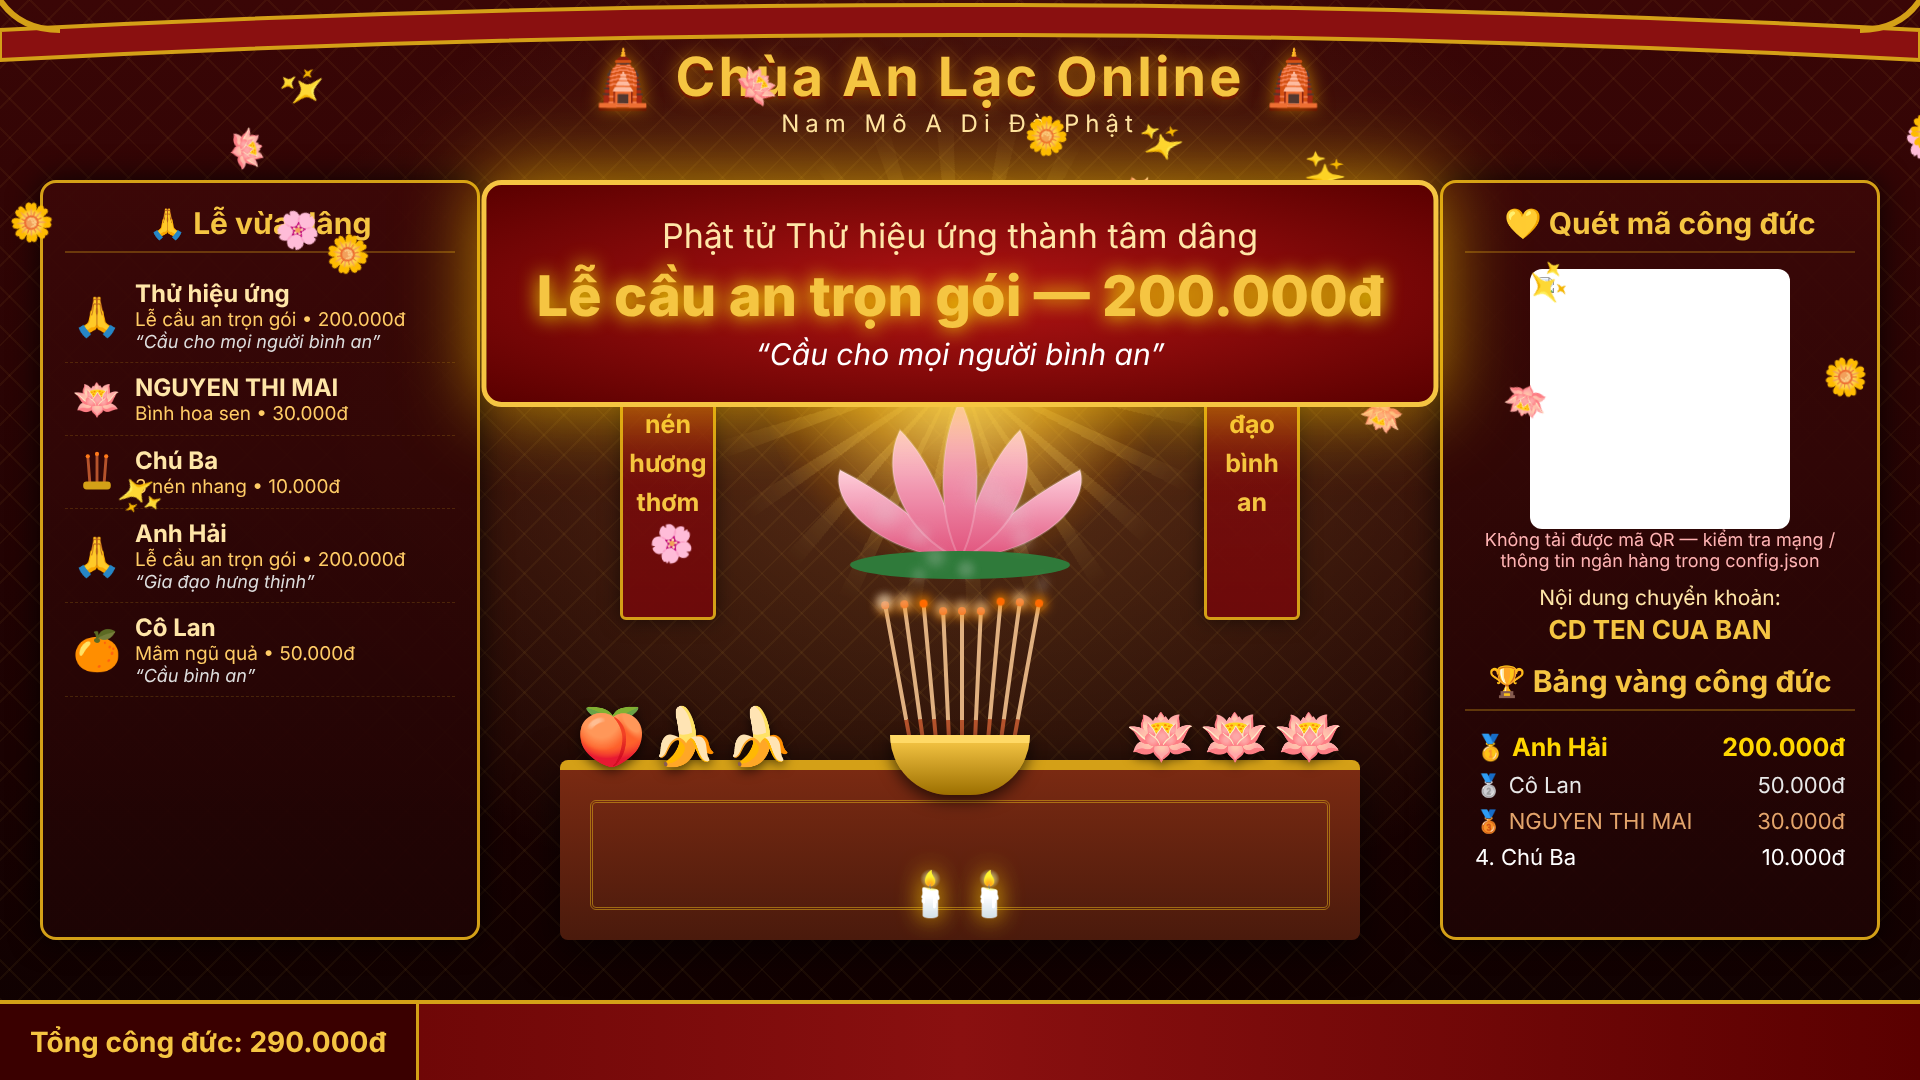
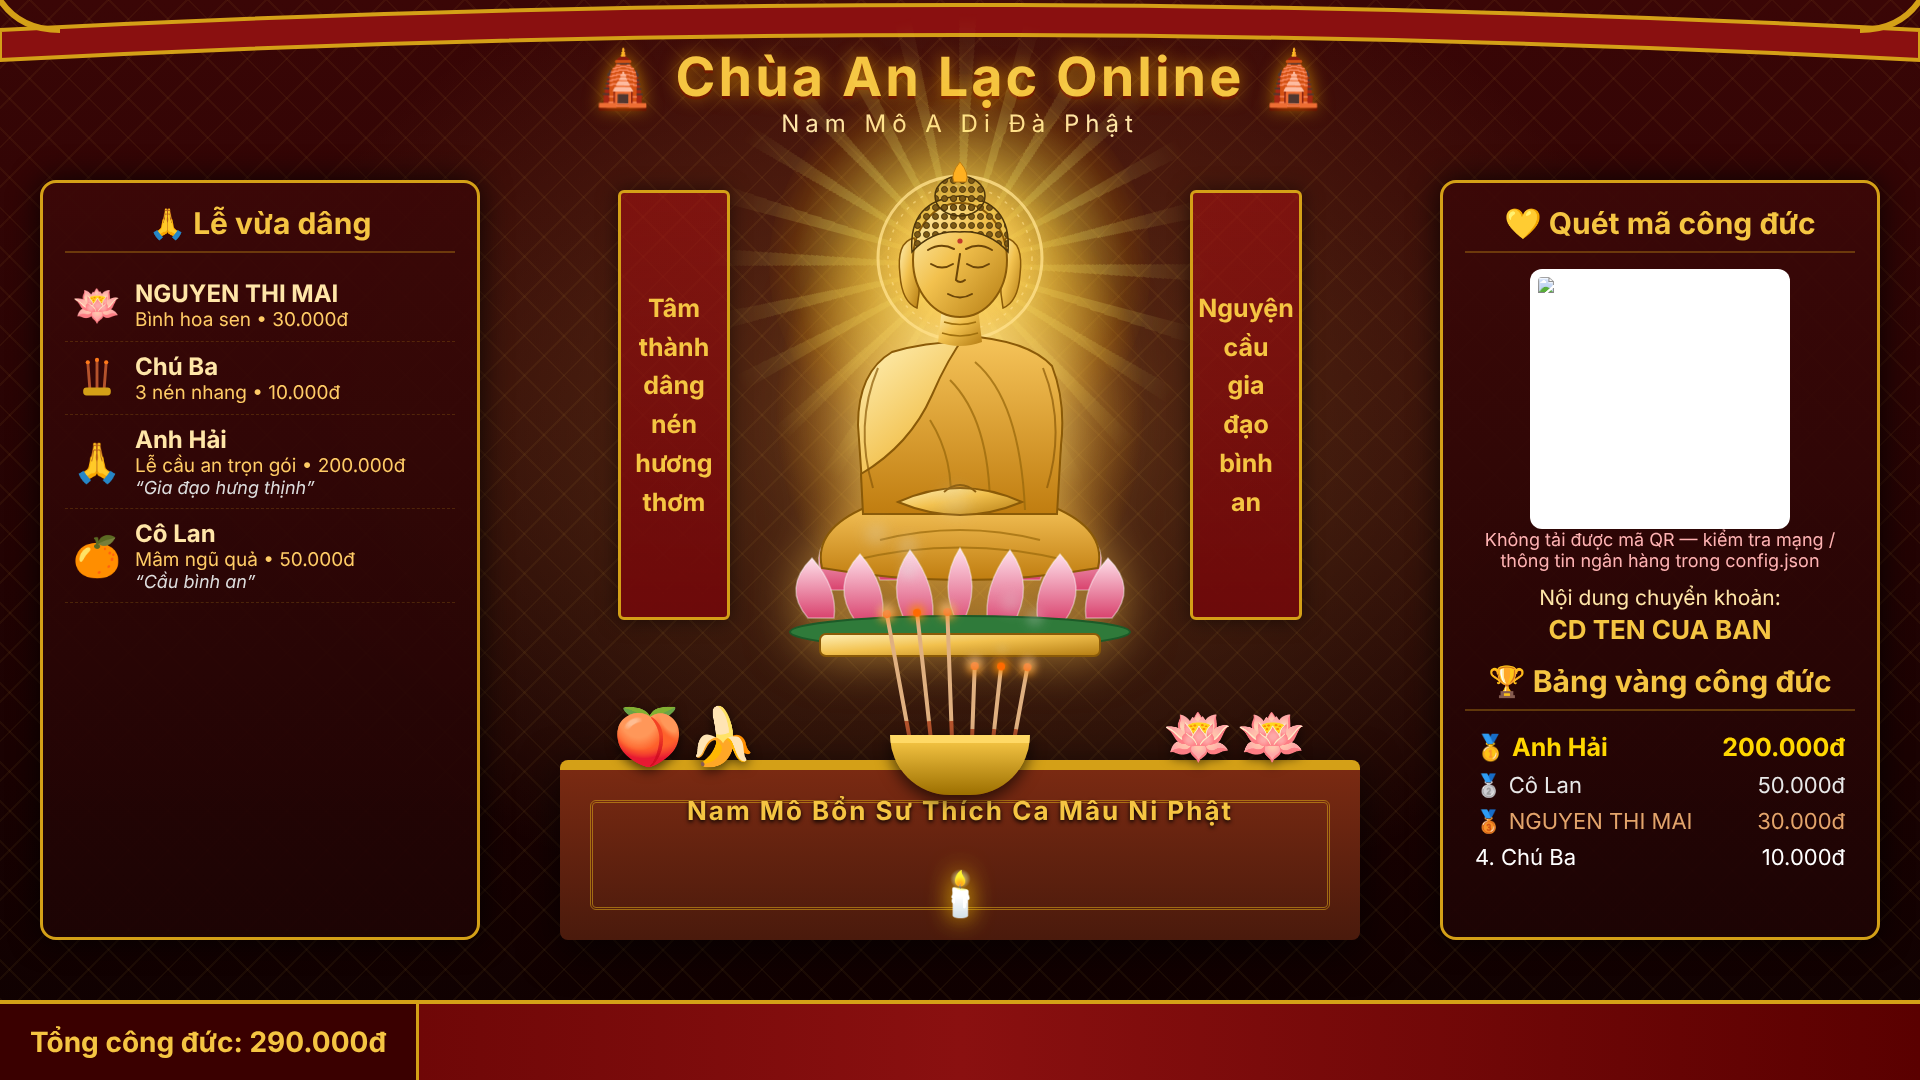
Thêm tượng Phật ngồi thiền trên tòa sen vào cảnh chùa, hỗ trợ thay bằng ảnh tượng thật
Claude-Session: https://claude.ai/code/session_01SnbTBX7TzaXxBfhp9j6W1t

diff --git a/le-chua-online/public/overlay.html b/le-chua-online/public/overlay.html
@@ -31,7 +31,7 @@
   #roof p  { position:relative; top:44px; font-size:24px; color:#ffe6a8; letter-spacing:6px; }
 
   /* Hào quang + hoa sen trung tâm */
-  #halo { position:absolute; left:760px; top:170px; width:400px; height:400px; border-radius:50%;
+  #halo { position:absolute; left:780px; top:85px; width:360px; height:360px; border-radius:50%;
     background:radial-gradient(circle, rgba(255,230,140,.95) 0%, rgba(255,190,60,.55) 35%, rgba(255,150,0,.12) 62%, transparent 72%);
     animation:glow 4s ease-in-out infinite; }
   @keyframes glow { 50% { transform:scale(1.07); filter:brightness(1.2); } }
@@ -39,15 +39,17 @@
     background:repeating-conic-gradient(rgba(255,215,100,.18) 0 4deg, transparent 4deg 15deg); animation:spin 60s linear infinite;
     mask:radial-gradient(circle, #000 40%, transparent 70%); -webkit-mask:radial-gradient(circle, #000 40%, transparent 70%); }
   @keyframes spin { to { transform:rotate(360deg); } }
-  #lotus { position:absolute; left:810px; top:380px; }
-  #holy { position:absolute; left:760px; top:300px; width:400px; text-align:center; font-size:30px; color:#7a2a00; font-weight:700; letter-spacing:2px; }
+  /* Tượng Phật (SVG vẽ sẵn, hoặc ảnh thật nếu đặt buddhaImage trong config.json) */
+  #buddha { position:absolute; left:760px; top:140px; width:400px; height:520px; filter:drop-shadow(0 0 24px rgba(255,200,80,.55)); }
+  #buddha img { width:100%; height:100%; object-fit:contain; object-position:bottom; }
+  #holy { position:absolute; left:0; right:0; top:168px; text-align:center; font-size:26px; color:var(--gold); font-weight:700; letter-spacing:2px; z-index:1; text-shadow:0 2px 4px #000; }
 
   /* Câu đối hai bên */
   /* Câu đối chữ Quốc ngữ: mỗi chữ một dòng, đọc từ trên xuống */
-  .couplet { position:absolute; top:190px; width:96px; height:430px; text-align:center; line-height:1.55;
+  .couplet { position:absolute; top:190px; width:112px; height:430px; text-align:center; line-height:1.55;
     background:linear-gradient(#a3121299,#6d0a0a); border:3px solid var(--gold2); border-radius:6px; color:var(--gold);
     font-size:25px; font-weight:700; display:flex; align-items:center; justify-content:center; box-shadow:0 0 20px #0008; }
-  #c1 { left:620px; } #c2 { left:1204px; }
+  #c1 { left:618px; } #c2 { left:1190px; }
 
   /* Bàn thờ */
   #altar { position:absolute; left:560px; top:640px; width:800px; height:300px; }
@@ -105,7 +107,8 @@
   @keyframes tick { to { transform:translateX(-100%); } }
 
   /* Thông báo lớn khi có người dâng lễ */
-  #announce { position:absolute; left:50%; top:180px; transform:translateX(-50%) scale(.5); opacity:0; z-index:50;
+  /* Đặt thông báo ở phía dưới để không che tượng Phật */
+  #announce { position:absolute; left:50%; top:660px; transform:translateX(-50%) scale(.5); opacity:0; z-index:50;
     min-width:900px; padding:30px 50px; text-align:center; border-radius:20px; pointer-events:none;
     background:radial-gradient(ellipse, #b31414, #5a0000); border:5px solid var(--gold); box-shadow:0 0 80px rgba(255,200,0,.7);
     transition:all .5s cubic-bezier(.2,1.4,.4,1); }
@@ -129,24 +132,102 @@
   </div>
 
   <div id="halo"><div class="rays"></div></div>
-  <div id="holy">Nam Mô Bổn Sư<br>Thích Ca Mâu Ni Phật</div>
-  <svg id="lotus" width="300" height="200" viewBox="0 0 300 200" aria-hidden="true">
-    <defs><linearGradient id="pg" x1="0" y1="0" x2="0" y2="1"><stop offset="0" stop-color="#ffd1e0"/><stop offset="1" stop-color="#e0507a"/></linearGradient></defs>
-    <g fill="url(#pg)" stroke="#fff3" stroke-width="2">
-      <path d="M150 180 C60 170 20 120 30 90 C70 110 110 140 150 180Z"/>
-      <path d="M150 180 C240 170 280 120 270 90 C230 110 190 140 150 180Z"/>
-      <path d="M150 180 C90 150 70 90 90 50 C120 80 140 130 150 180Z"/>
-      <path d="M150 180 C210 150 230 90 210 50 C180 80 160 130 150 180Z"/>
-      <path d="M150 180 C125 130 130 60 150 20 C170 60 175 130 150 180Z"/>
+  <!-- Tượng Phật ngồi thiền trên tòa sen (vẽ bằng SVG) -->
+  <div id="buddha">
+  <svg viewBox="0 0 400 520" width="400" height="520" role="img" aria-label="Tượng Phật">
+    <defs>
+      <linearGradient id="gold" x1="0" y1="0" x2="1" y2="1">
+        <stop offset="0" stop-color="#fff1b8"/><stop offset=".45" stop-color="#f2c14e"/><stop offset="1" stop-color="#b47c12"/>
+      </linearGradient>
+      <linearGradient id="robe" x1="0" y1="0" x2="0" y2="1">
+        <stop offset="0" stop-color="#f6c45a"/><stop offset="1" stop-color="#c07d10"/>
+      </linearGradient>
+      <linearGradient id="hair" x1="0" y1="0" x2="0" y2="1">
+        <stop offset="0" stop-color="#6b4a12"/><stop offset="1" stop-color="#8f6a1c"/>
+      </linearGradient>
+      <linearGradient id="petal" x1="0" y1="0" x2="0" y2="1">
+        <stop offset="0" stop-color="#ffe0ea"/><stop offset="1" stop-color="#d9436e"/>
+      </linearGradient>
+      <radialGradient id="aura" cx=".5" cy=".5" r=".5">
+        <stop offset="0" stop-color="#fff6c8" stop-opacity=".9"/><stop offset=".6" stop-color="#ffcf55" stop-opacity=".35"/><stop offset="1" stop-color="#ff9d00" stop-opacity="0"/>
+      </radialGradient>
+      <pattern id="curls" width="9" height="9" patternUnits="userSpaceOnUse">
+        <circle cx="4.5" cy="4.5" r="3" fill="#7d5a16" stroke="#4e360a" stroke-width="1"/>
+      </pattern>
+    </defs>
+
+    <!-- Hào quang thân và đầu -->
+    <ellipse cx="200" cy="270" rx="185" ry="235" fill="url(#aura)"/>
+    <circle cx="200" cy="118" r="82" fill="url(#aura)" stroke="#ffe08a" stroke-width="3" stroke-opacity=".8"/>
+    <circle cx="200" cy="118" r="72" fill="none" stroke="#ffe08a" stroke-width="1.5" stroke-opacity=".6" stroke-dasharray="3 6"/>
+
+    <!-- Tòa sen: hàng cánh phía sau -->
+    <g fill="url(#petal)" stroke="#fff5" stroke-width="1.5">
+      <path d="M70 450 Q45 415 75 390 Q100 420 95 450Z"/><path d="M330 450 Q355 415 325 390 Q300 420 305 450Z"/>
+      <path d="M120 440 Q100 400 130 378 Q150 410 145 440Z"/><path d="M280 440 Q300 400 270 378 Q250 410 255 440Z"/>
     </g>
-    <ellipse cx="150" cy="185" rx="110" ry="14" fill="#2f7a3a"/>
+
+    <!-- Chân ngồi kiết già -->
+    <path d="M62 428 Q52 385 120 362 L280 362 Q348 385 338 428 Q200 452 62 428Z" fill="url(#robe)" stroke="#8a5a08" stroke-width="2"/>
+    <path d="M95 420 Q200 395 305 420 M120 400 Q200 380 280 400" stroke="#9a6a0c" stroke-width="2" fill="none" opacity=".7"/>
+
+    <!-- Thân -->
+    <path d="M132 212 Q200 192 268 212 Q302 232 302 285 L296 372 L104 372 L98 285 Q98 232 132 212Z" fill="url(#gold)" stroke="#8a5a08" stroke-width="2"/>
+    <!-- Áo cà sa vắt vai -->
+    <path d="M205 196 Q268 200 292 226 Q306 262 301 305 L297 374 L103 374 L101 334 Q150 305 172 255 Q188 218 205 196Z" fill="url(#robe)" stroke="#8a5a08" stroke-width="2"/>
+    <path d="M190 240 Q230 280 230 370 M215 222 Q260 260 265 370 M170 280 Q195 320 190 370" stroke="#9a6a0c" stroke-width="2" fill="none" opacity=".75"/>
+    <path d="M118 228 Q94 285 113 348 M283 228 Q306 285 287 348" stroke="#8a5a08" stroke-width="2" fill="none" opacity=".7"/>
+
+    <!-- Hai tay kết ấn thiền định -->
+    <path d="M138 362 Q200 334 262 362 Q200 388 138 362Z" fill="url(#gold)" stroke="#8a5a08" stroke-width="2"/>
+    <path d="M184 352 Q200 338 216 352" stroke="#8a5a08" stroke-width="2" fill="none"/>
+
+    <!-- Cổ (3 ngấn) -->
+    <path d="M182 168 L218 168 L222 202 Q200 210 178 202Z" fill="url(#gold)"/>
+    <path d="M184 182 Q200 187 216 182 M182 193 Q200 199 218 193" stroke="#a0700e" stroke-width="1.5" fill="none"/>
+
+    <!-- Tai dài -->
+    <path d="M154 98 Q136 102 140 135 Q142 162 157 168 Q162 140 158 110Z" fill="url(#gold)" stroke="#8a5a08" stroke-width="1.5"/>
+    <path d="M246 98 Q264 102 260 135 Q258 162 243 168 Q238 140 242 110Z" fill="url(#gold)" stroke="#8a5a08" stroke-width="1.5"/>
+
+    <!-- Mặt -->
+    <ellipse cx="200" cy="120" rx="47" ry="57" fill="url(#gold)" stroke="#8a5a08" stroke-width="2"/>
+
+    <!-- Tóc xoắn ốc + nhục kế -->
+    <path d="M152 112 Q148 60 200 56 Q252 60 248 112 Q228 90 200 92 Q172 90 152 112Z" fill="url(#curls)" stroke="#4e360a" stroke-width="1.5"/>
+    <ellipse cx="200" cy="56" rx="25" ry="20" fill="url(#curls)" stroke="#4e360a" stroke-width="1.5"/>
+    <path d="M200 22 Q210 34 206 42 L194 42 Q190 34 200 22Z" fill="#ffb020" stroke="#c07d10"/>
+
+    <!-- Nét mặt: mắt khép, miệng mỉm cười -->
+    <g stroke="#6b4508" stroke-width="2" fill="none" stroke-linecap="round">
+      <path d="M168 110 Q181 102 194 109"/><path d="M206 109 Q219 102 232 110"/>
+      <path d="M171 124 Q182 131 193 124"/><path d="M207 124 Q218 131 229 124"/>
+      <path d="M200 114 L196 140 Q200 144 205 140"/>
+      <path d="M188 154 Q200 161 212 154"/>
+    </g>
+    <circle cx="200" cy="101" r="2.6" fill="#c0392b"/>
+
+    <!-- Tòa sen: hàng cánh phía trước + đế -->
+    <g fill="url(#petal)" stroke="#fff6" stroke-width="1.5">
+      <path d="M48 478 Q22 448 52 418 Q78 448 74 478Z"/>
+      <path d="M96 482 Q70 446 100 414 Q128 446 122 482Z"/>
+      <path d="M148 486 Q124 446 150 410 Q178 446 172 486Z"/>
+      <path d="M200 488 Q176 446 200 408 Q224 446 200 488Z"/>
+      <path d="M252 486 Q276 446 250 410 Q222 446 228 486Z"/>
+      <path d="M304 482 Q330 446 300 414 Q272 446 278 482Z"/>
+      <path d="M352 478 Q378 448 348 418 Q322 448 326 478Z"/>
+    </g>
+    <ellipse cx="200" cy="492" rx="170" ry="16" fill="#2f7a3a" stroke="#1d5a28" stroke-width="2"/>
+    <rect x="60" y="494" width="280" height="22" rx="6" fill="url(#gold)" stroke="#8a5a08" stroke-width="2"/>
   </svg>
+  </div>
 
   <div class="couplet" id="c1"></div>
   <div class="couplet" id="c2"></div>
 
   <div id="altar">
     <div id="table"></div>
+    <div id="holy">Nam Mô Bổn Sư Thích Ca Mâu Ni Phật</div>
     <div id="sticks"></div>
     <div id="bowl"></div>
     <div class="zone" id="z-nhang"></div>
@@ -195,6 +276,10 @@ async function start() {
     text.split(/\s+/).forEach((w, i) => { if (i) el.append(document.createElement('br')); el.append(w); });
   }
   document.getElementById('qr').onerror = () => { document.getElementById('qrErr').style.display = 'block'; };
+  if (cfg.buddhaImage) {
+    const img = document.createElement('img'); img.src = cfg.buddhaImage; img.alt = 'Tượng Phật';
+    document.getElementById('buddha').replaceChildren(img);
+  }
   const note = cfg.transferPrefix + ' TEN CUA BAN';
   document.getElementById('qr').src = LC.qrUrl(0, note);
   document.getElementById('howto').innerHTML = 'Nội dung chuyển khoản:<br><b></b>';

diff --git a/le-chua-online/server.js b/le-chua-online/server.js
@@ -109,8 +109,8 @@ function serveStatic(req, res, urlPath) {
 
 // Cấu hình công khai (KHÔNG gửi adminKey / webhookApiKey ra ngoài)
 function publicConfig() {
-  const { templeName, slogan, couplet, bank, transferPrefix, items } = config;
-  return { templeName, slogan, couplet, bank, transferPrefix, items };
+  const { templeName, slogan, couplet, buddhaImage, bank, transferPrefix, items } = config;
+  return { templeName, slogan, couplet, buddhaImage, bank, transferPrefix, items };
 }
 
 // ---------- Định tuyến ----------

diff --git a/le-chua-online/README.md b/le-chua-online/README.md
@@ -15,6 +15,7 @@
 1. Cài **Node.js** (bản LTS) từ https://nodejs.org
 2. Mở thư mục `le-chua-online`, sửa file `config.json`:
    - `templeName`, `slogan`, `couplet`: tên chùa, câu đối
+   - `buddhaImage` (tùy chọn): để trống thì dùng tượng Phật vẽ sẵn. Muốn dùng ảnh tượng Phật thật của chùa: chép ảnh **PNG nền trong suốt** (dọc, khoảng 800×1040) vào thư mục `public/`, rồi điền tên file, VD `"buddhaImage": "tuong-phat.png"`
    - `bank`: `bankCode` (VD: `MB`, `VCB`, `TCB`, `ACB`...), `accountNo`, `accountName` (viết HOA, không dấu)
    - `adminKey`: **đổi thành mật khẩu riêng của anh**
    - `items`: tên lễ, giá, thời gian hiển thị trên bàn thờ (phút)
